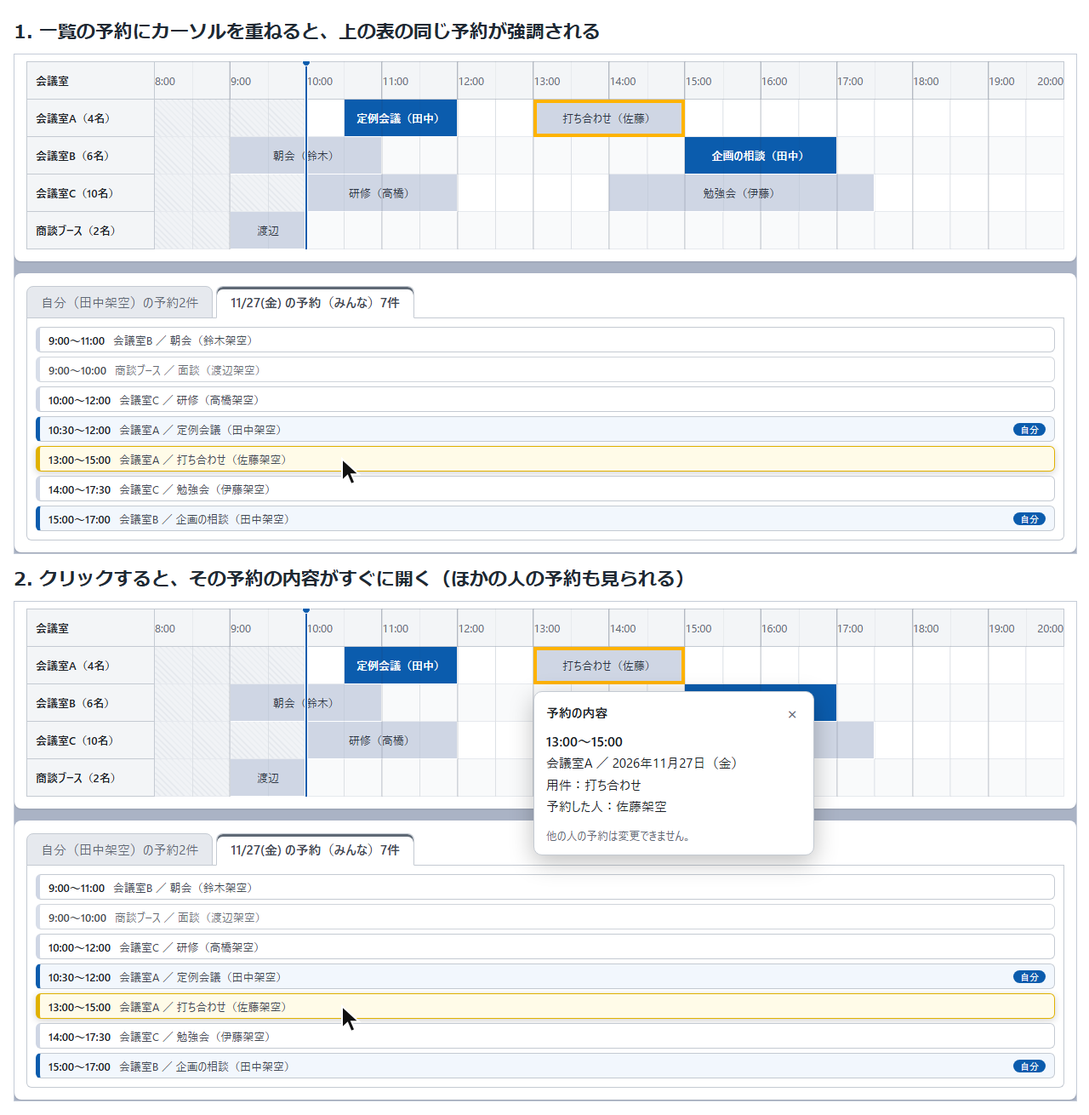
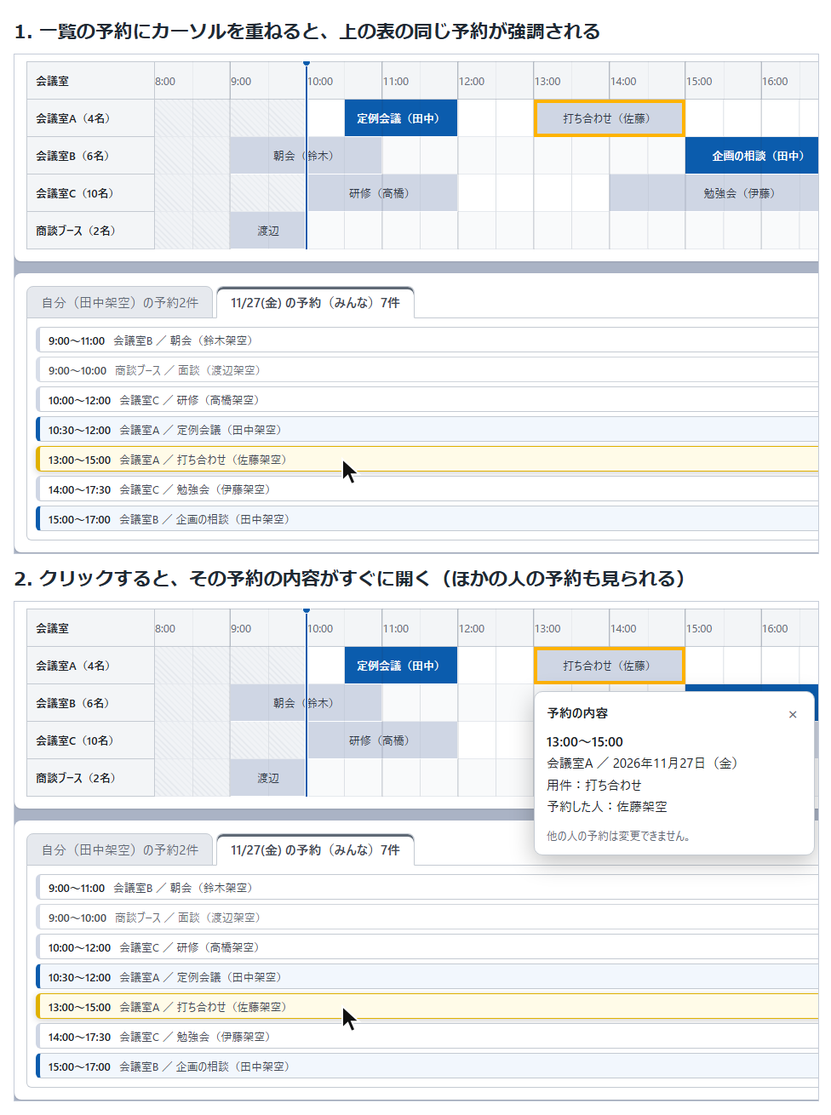
ポートフォリオを人事の方向けに添削して直す（#198）

diff --git a/README.md b/README.md
@@ -1,144 +1,103 @@
 # 会議室予約管理アプリ
 
-社員が PC から会議室の空き状況を確認して、予約・変更・キャンセルできる Web アプリです。**同じ会議室・同じ時間帯の予約が重ならないこと**を、いちばん大事にしています。
+社員が PC で会議室の空き状況を確認して、予約・変更・キャンセルできる Web アプリです。**同じ会議室の予約が重ならないこと**を、いちばん大事にしています。
 
-AI（Claude Code）を使ったアプリ開発の工程を学ぶための練習用で、会社・社員・予約データはすべて架空です。ログイン機能はなく、自分のパソコンで動かすことを想定しています。
+AI（Claude Code）と一緒に作った学習用のアプリで、会社・社員・予約データはすべて架空です。
 
-**技術**: Java 25 / Spring Boot ・ React / TypeScript / Vite ・ PostgreSQL
-
-## 目次
-- [こだわったところ](#こだわったところ)
-- [今回は実装しなかったことと、反省点](#今回は実装しなかったことと反省点)
-- [主な機能と使い方](#主な機能と使い方)
-- [技術構成](#技術構成)
-- [品質と開発の進め方](#品質と開発の進め方)
-- [起動方法](#起動方法)
-- [クライアントとペルソナ](#クライアントとペルソナ要約架空)
-- [注意と制限](#注意と制限)
-- [開発の記録](#開発の記録)
-- [ライセンス](#ライセンス)
-
-## こだわったところ
-写っている社員・予約は、すべて架空のデータです。
+**技術**: Java / Spring Boot ・ React / TypeScript ・ PostgreSQL
 
 ![会議室ごとの予約が並ぶ予約表と、その日のみんなの予約の一覧](docs/images/timetable.png)
 
-お客様は PC の複雑な操作が苦手で、いちばんの困りごとは予約の重複です。そこで、次の 3 つを意識して作りました。変更とキャンセルも、総務部に頼まず自分でできます（取り消しの前には確認を出します）。
+## 自分が担当したこと
+- 画面を実際に操作して、直感的な操作と視線の動きの面から、改善を指示しました。
+- AI が直した画面や、README の文章と写真を確かめて、公開するかを決めました。
+- 足りなかった確認（会議室の状況を聞く項目）を、反省点として整理しました。
+
+コードは AI（Claude Code）が書いています。
+
+## お客様と困りごと（架空）
+- **お客様**: 架空ひなたサービス株式会社（オフィス運営・管理業、社員約 6 名、会議室が複数）。
+- **困りごと**: 予約を Excel と社内連絡で管理していて、空きの確認に手間がかかり、予約が重なることがある。
+- **利用者の例**: 田中架空（35 歳・営業部）。基本的な PC 操作はできるが、複雑なシステムは苦手。
+- **作ったもの**: 空き状況の確認、予約、予約の変更とキャンセル。
+- **作らなかったもの**: 繰り返し予約、メール通知、管理者画面、本物のログイン。
+
+## こだわったところ
+利用者は複雑な操作が苦手で、いちばんの困りごとは予約の重なりです。そこで、次の 3 つを意識しました。変更とキャンセルも、総務部に頼まず自分でできます（取り消しの前には確認を出します）。
 
 ### 1. 直感的に操作できる
-空き枠を押すだけで、会議室と時間が入った状態で予約できます。長い時間はドラッグで選べます。
+空いている所を押すだけで、会議室と時間が入った状態で予約できます。長い時間はドラッグで選べます。
 
 ![商談ブースの空き枠を押して開いた予約の小窓](docs/images/reserve.png)
 
 ### 2. 視線をあまり動かさない
-表と下の一覧を離しすぎず、同じ画面で見比べられるようにしました。一覧と表は連動し、どの予約かを探し直さずに済みます。カレンダーは、カーソルを外すと透けて、後ろの表が見えます。
+予約の表と一覧を近くに置き、同じ画面で見比べられるようにしました。一覧と表は連動するので、どの予約かを探し直さずに済みます。カレンダーは、カーソルを外すと透けて、後ろの表が見えます。
 
 ![一覧の予約にカーソルを重ねると表の同じ予約が強調され、クリックすると予約の内容が開く様子](docs/images/list-link.png)
 
 ![ミニカレンダーが、使っている間ははっきり表示され、カーソルを外すと透けて後ろの予約表が見える様子](docs/images/calendar.png)
 
 ### 3. 間違える前に気づける
-同じ会議室の重複は禁止し、ドラッグの途中で赤く知らせます。自分が同じ時間に別の会議室を押さえようとすると、注意と確認を出します（使い方としてありうるので、禁止はしません）。
+同じ会議室の重なりは予約できないようにし、ドラッグの途中で赤く知らせます。自分が同じ時間に別の会議室を押さえようとすると、注意と確認を出します（そういう使い方もありうるので、禁止はしません）。
 
 ![重なる時間までドラッグすると赤くなって理由が表示される様子と、自分の別の予約と重なるときの注意文](docs/images/prevent.png)
 
-## 今回は実装しなかったことと、反省点
-**静かな会議室の目印**: ペルソナには「静かな会議室を押さえたい」場面がありますが、実装しませんでした。社員約 6 名・会議室 4 つなら、働くうちに経験で分かると判断したためです。ただし、入社したばかりの人には分かりません。
+結果として、複雑な操作が苦手な社員にも使いやすい、直感的でシンプルなアプリになったと考えています（実際の利用者には、使ってもらっていません）。
 
-**反省点**: どの部屋が静かかといった会議室の状況を、お客様に確認する項目として、要件の段階で挙げていませんでした。ペルソナの場面に対する疑問を詰めきれず、機能にするかを早い段階で判断できませんでした。次は、ペルソナの場面を 1 つずつ要件と照らし合わせ、分からない点を質問として書き出します（実際に聞けない場合は、仮の答えと理由を決めます）。
+## 実装しなかったことと、反省点
+利用者の例には「静かな会議室を押さえたい」場面がありましたが、静かな部屋の目印は作りませんでした。
 
-## 主な機能と使い方
-画面は 1 つだけです（PC 向け）。
+- **判断したこと**: 社員約 6 名・会議室 4 つなら、働くうちに経験で分かると考えました。ただし、入社したばかりの人には分かりません。
+- **抜けていたこと**: どの部屋が静かかを、最初にお客様へ確認する項目に挙げていませんでした。
+- **次にすること**: 利用者の場面を 1 つずつ要件と照らし合わせ、分からない点を質問として書き出します。
 
-| 機能 | 使い方 |
+## AI と進めて学んだこと
+**よかった点**: 画面を操作して気づいたことを伝えると、直感的な操作や視線の動きの面で、デザインがよくなりました。
+
+**反省点**: 信頼するあまり、AI のおすすめを、理由を考えずに選ぶことがありました。特に文章は、自分の言葉で説明できるかを、もっと慎重に確かめるべきでした。
+
+**これから続けること**
+- 選ぶときは、なぜそれがよいと思うかを書く。
+- 仕上げのあとに、自分の言葉で説明する練習をする。
+
+## 主な機能
+| 機能 | 内容 |
 |---|---|
-| 社員を選ぶ | 右上の「ログイン中（仮）」で、操作する社員を選ぶ（パスワードなし） |
-| 空きを見る | 日付バー（◀ 今日 ▶・カレンダー）で日を選ぶと、会議室 × 時間の表に予約が出る（自分は青、ほかの人はグレー） |
-| 予約する | 空き枠を押す（30 分）かドラッグ（長い時間）して、小窓で会議室・日付・時間・用件（任意）を確かめて「予約する」 |
-| 予約を見る | 表の枠か、下の一覧のカードを押す。一覧は「自分の予約（今後）」と「その日のみんなの予約」のタブ |
-| 変更・キャンセル | 自分の、始まる前の予約だけ。小窓の［変更する］［予約をキャンセルする］か、自分のカードの［変更］［予約をキャンセル］から。どちらも確認が出る |
+| 社員を選ぶ | 画面の右上で、操作する社員を選ぶ（ログインの代わり） |
+| 空きを見る | 日付を選ぶと、会議室 × 時間の表に予約が出る（自分は青、ほかの人はグレー） |
+| 予約する | 空いている所を押すかドラッグして、会議室・日付・時間・用件（任意）を確かめる |
+| 変更・キャンセル | 自分の、始まる前の予約だけ。どちらも確認が出る |
+| キーボード操作 | マウスを使わずに予約できる |
 
-**予約の決まり**: 8:00〜20:00 の 30 分刻み、1 件は 4 時間まで、今日から 90 日先まで。同じ会議室で時間が重なる予約はできません。自分が同じ時間に別の会議室を予約するときは、注意を出して確認します（禁止はしません）。
+予約は 8:00〜20:00 の 30 分刻み、1 件 4 時間まで、90 日先までです。
 
-**キーボードだけでも予約できます**: 表の中は矢印キーで移動し（Tab で止まるのは表で 1 か所）、Enter で予約の小窓、Shift + ← → で長い時間を選びます。日付の並びの右端の［＋ 予約する］ボタンからは、最初の空き 30 分の小窓が開きます。
-
-## 技術構成
-```
-ブラウザ ── 画面（React + Vite） :5173
-              │ /api を中継
-              ▼
-            API（Spring Boot）   :8080
-              │
-              ▼
-            DB（PostgreSQL）     :5432（Docker）
-```
-
+## 技術と品質
 | 部分 | 使っているもの |
 |---|---|
-| 画面 | React 19・TypeScript・Vite |
-| API | Java 25・Spring Boot・Spring Data JPA・Flyway |
-| DB | PostgreSQL 18 |
-| テスト | JUnit + Testcontainers（API）・Vitest + Testing Library（画面）・Playwright（E2E） |
-| 品質と CI | oxlint・型チェック・SpotBugs・javac の警告・GitHub Actions |
+| 画面 | React・TypeScript・Vite |
+| API（画面と DB をつなぐ処理） | Java・Spring Boot |
+| DB（データの保存） | PostgreSQL |
+| テストと自動検査 | JUnit・Vitest・Playwright・GitHub Actions |
 
-詳しい版は [技術スタック](docs/tech-stack.md)、表と API の設計は [データ設計](docs/data-design.md)。
+- **重なりを二重に防ぐ**: アプリの処理で確かめ、さらにデータベースの決まりでも拒否します。2 人が同時に押した場合は、アプリの確認だけではすり抜けるためです。片方ずつわざと無効にして、テストの結果を確かめました（[確認の記録](docs/completion-check.md)）。
+- **自動テスト**: 合計 191 件で確かめています（API 56・画面 126・通しの操作 9）。変更のたびに自動で実行し、成功しないと取り込めない設定です。
+- **安全の確認**: パスワードなどが公開されていないか、不正な入力に耐えるかを調べました（[セキュリティ確認](docs/security-review.md)）。
+- **進め方**: 作業を登録し、別の場所で作り、自動検査を通してから、人が取り込む順で進めました。
 
-## 品質と開発の進め方
-- **重複予約を二重に防ぐ**: API（Java）で重なりを調べ、さらに DB の排他制約でも拒否します。Java の確認だけだと、2 人が同時に押したときにすり抜けるためです。片方ずつわざと無効にして、テストの結果を確かめました（[完成の目安の見比べ](docs/completion-check.md)）。
-- **自動テスト**: API 56 件・画面 126 件・E2E 9 件（2026-11-25 時点）。プルリクエストごとに CI で実行し、成功しないと `main` に入れられません。
-- **公開前の確認**: 秘密情報・依存部品・API への不正な入力を調べました（[セキュリティ確認](docs/security-review.md)）。
-- **レビューの記録**: 直した指摘と、見送った理由を残しています（[品質レビュー](docs/quality-review.md)）。
-- **開発の進め方**: Issue → ブランチ → プルリクエスト → CI → 人がマージ、の順で進めました。AI に守らせる決まりは [CLAUDE.md](CLAUDE.md) にあります。
-
-## 起動方法
-必要なもの: Java 25・Node.js 24・Docker。
-
-DB → API → 画面の順に 3 つ起動し、ブラウザで http://localhost:5173 を開きます（ポートは 5432・8080・5173 で固定）。
-
-### 1. DB（PostgreSQL・ポート 5432）
-1. `.env.example` をコピーして `.env` を作り、`DB_PASSWORD` を自分で決めた値に書き換える（`.env` は GitHub に載せない）。
-2. `docker compose up -d` で起動する（停止は `docker compose down`）。
-
-### 2. API（Spring Boot・ポート 8080）
-`backend/` で `./gradlew bootRun`。起動すると、Flyway が表とサンプルデータ（すべて架空）を作ります。
-
-### 3. 画面（React + Vite・ポート 5173）
-`frontend/` で、初回だけ `npm ci`、そのあと `npm run dev`。
-
-### テストと検査
-| 場所 | コマンド | 内容 |
-|---|---|---|
-| `backend/` | `./gradlew test` | API のテスト（Docker が必要） |
-| `backend/` | `./gradlew check` | テスト + SpotBugs（静的解析）+ javac の警告（Docker が必要。CI と同じ） |
-| `frontend/` | `npm run lint` | 書き方チェックと型チェック |
-| `frontend/` | `npm test` | 画面のテスト（`npm run coverage` で網羅率） |
-| `frontend/` | `npm run build` | 型チェックのあとにビルド |
-| `frontend/` | `npm run e2e` | E2E テスト（下の説明を参照） |
-
-E2E テストは、ブラウザを自動で動かして、予約・変更・キャンセルなどを通しで確かめます。先に `docker compose up -d` で DB だけを起動し、**開発用の API・画面は止めておきます**（テストが 8080・5173 で自動起動します）。使い捨ての DB `room_booking_e2e` を作り、終わると消します（開発用の DB は触りません）。初回だけ `npx playwright install chromium` が必要です。
-
-## クライアントとペルソナ（要約・架空）
-- **クライアント**: 架空ひなたサービス株式会社（オフィス運営・管理業、社員約 6 名、会議室が複数）。
-- **困りごと**: 予約を Excel と社内連絡で管理していて、空き確認に手間がかかり、予約が重複することがある。
-- **ペルソナ**: 田中架空（35 歳・営業部）。基本的な PC 操作はできるが、複雑なシステムは苦手。
-- **作るもの**: 空き状況の確認、予約、予約の変更、予約のキャンセル。
-- **作らないもの**: 繰り返し予約、メール通知、管理者画面、本物のログイン。
-
-詳しくは [要件定義書](docs/requirements.md)・[クライアント情報](docs/client-brief.md)・[ペルソナ](docs/persona.md)。
+## 詳しい資料
+| 資料 | 内容 |
+|---|---|
+| [要件定義書](docs/requirements.md) | 何を作るかと、その理由（[お客様](docs/client-brief.md)・[利用者の例](docs/persona.md)） |
+| [画面設計](docs/screen-design.md)・[データ設計](docs/data-design.md) | 画面と、データの持ち方 |
+| [起動方法とテスト](docs/setup.md)・[技術スタック](docs/tech-stack.md) | 動かし方と、使った道具の版 |
+| [品質レビュー](docs/quality-review.md) | 直した指摘と、見送った理由 |
+| [進捗状況](docs/progress.md) | いつ、何を作り、直したか |
+| [CLAUDE.md](CLAUDE.md) | AI に守らせた決まり |
 
 ## 注意と制限
-- **インターネット上のサーバーに置かないでください。** ログインがない学習用で、API は `127.0.0.1`（自分のパソコン）だけで待ち受けます。
-- **本人の確認はできません。** API は、送られた社員番号をそのまま信じます。変更・キャンセルで予約した人と番号が一致するかは調べますが、他人の番号を送れば操作できます。
-- DB のパスワードは `.env` にだけ書きます（コードには初期値も書きません）。
-- 対応するブラウザは Chrome・Edge の最新版です。自動テストは Chromium で行っています。
+- **ログインがない学習用のため、インターネット上に公開して使うことはできません。** 他の社員を選べば、その人の予約も操作できます。
+- 対象は PC の Chrome・Edge です。スマートフォン向けには作っていません。
 - 弱点を見つけたときの連絡方法は [SECURITY.md](SECURITY.md)。
-
-## 開発の記録
-| 文書 | 内容 |
-|---|---|
-| [進捗状況](docs/progress.md) | いつ、何を作り、直したか |
-| [次回の再開メモ](docs/handoff.md) | 今の状態と、次にやること |
-| [画面設計](docs/screen-design.md)・[画面モック](docs/mock/index.html) | 画面の要素と、作る前の見本 |
 
 ## ライセンス
 [MIT License](LICENSE)

diff --git a/docs/handoff.md b/docs/handoff.md
@@ -7,7 +7,7 @@
 - **次回はここから**（この順番で）:
   0. 「マージしました」と言われたら、**番号ごとに、状態が MERGED のときだけ**片付ける: `S=$(gh pr view <番号> --json state --jq .state); [ "$S" = MERGED ] && git switch main && git pull && git branch -d <ブランチ>`。状態を表示するだけだと、`&&` で先へ進んで、マージ前のブランチを消してしまう（2026-11-25 に #183 で起きた。リモートは無事だったので戻せた）。
   1. **済（#188）**: 見送りにした項目の理由を、`docs/quality-review.md` に書いた。
-  2. **ポートフォリオに関わるもの**（ユーザーの指示で、最後にまとめて。この順番。**次は④から**）: ①**済（#190）**: README の整理（案A「見せる順」でユーザー了承）。②**済（#192）**: LICENSE（MIT。著作権者は `shin`）。③**済（#194）**: 画面の写真（`docs/images/`。#196 で 5 枚に入れ替え、README は「こだわったところ」の構成にした）。画面の見た目を変えたら撮り直す（撮影用の別の DB を作り、画面の時計を固定して撮った）。④完成したら「更新を止めた」旨と日付を書くか、リポジトリをアーカイブする案を相談する。
+  2. **ポートフォリオに関わるもの**（ユーザーの指示で、最後にまとめて。この順番。**次は④から**）: ①**済（#190）**: README の整理（案A「見せる順」でユーザー了承）。②**済（#192）**: LICENSE（MIT。著作権者は `shin`）。③**済（#194）**: 画面の写真（`docs/images/`。#196 で 5 枚に入れ替え、README は「こだわったところ」の構成にした）。#198 で人事の方向けに添削して直した（**ポートフォリオは、作ったらプロ視点で添削する**）。残る相談: 完成後の扱い・古いブランチ。予定: 説明の練習（面接官の質問に答える）とデザインのレビュー。画面の見た目を変えたら撮り直す（撮影用の別の DB を作り、画面の時計を固定して撮った）。④完成したら「更新を止めた」旨と日付を書くか、リポジトリをアーカイブする案を相談する。
      - 別件: GitHub に古いブランチ `feature/86-cal-title-align` が残っている（PR #87 はマージされずに閉じた）。中身を確かめてから、消すかユーザーに相談する。
   3. **全部が終わったあと（ユーザーの依頼）**: ①このアプリのデザインなどを、**プロの視点でレビューして教える**（今後に役立てる）。②**ユーザーと私の「完成イメージの差」を洗い出す**。ユーザーが言い直した所（警告文は最初から赤で統一・断りのお知らせは操作の近く・予約の点は数字の下・カレンダーの大きさは月でそろえる・4 時間超えは操作中に赤で見せる・短い枠の文字切れ・絵文字は使わない・ポートフォリオは最後）が、たたき台。これをもとに、次のアプリのモック・プロトタイプ・コードの完成度を上げる決まりを作り、スキル `app-dev-knowledge` と記憶に反映する。たたき台は、記憶 `design-gaps-user-expectations` にある。
 - **気をつけること**: ①`CLAUDE.md` の「報告と判断の誠実さ」5 項目（できた・できていない・確認していないを分ける／見ていないことを済みと書かない／解釈したら確認する／テストのために目的を変えない／問題は小さくても書く）を、報告のたびに守る。②画面を作る前は、`docs/screen-design.md` の「要素の一覧」と最終モックを全部読み、入れる・入れない要素をユーザーに見せて了承を取る。③ブランチを作るコマンドと commit のコマンドは分ける。`push` と `main` が同じコマンドに入ると、フックに止められる。④CI が赤いときは、まずログの原因を読む（429 などは `gh run rerun <番号> --failed`）。手元（Windows）では通るのに CI（Linux・別のフォント）で落ちる寸法のテストがあるので、寸法は「設計の関係」で確かめる。⑤画面の見た目は、実ブラウザでユーザーに確認してもらってから、コミットして PR にする。見た目の指摘は、まず実ブラウザで測る。⑥ファイルの編集は Edit ツールか Node で行う。Node の文字列に `\n` や `` を書くと、実際の改行や文字に展開されるので、Java などの記号を書くときは Edit ツールを使う。CRLF のファイルに注意。作業中の変更を捨てるコマンド（`git checkout -- .` など）は打たない。⑦**表示や文言を変える PR は、画面のテストだけでなく `e2e` も `grep` し、手元で `npm run e2e` を実行してから出す**。E2E は、画面の時計を日本時間の今日の 10:00 に固定してあり（実行する時刻で結果が変わらないように）、API の時計は本物のまま。⑧**やり取りの文章（チャット）で、絵文字を使わない**（小さくて判別できない。丸数字・コード・文書・PR 本文はよい）。⑨調査だけの回は、コードもファイルも変えない。⑩次のアプリでは、画面設計の最初にデザイン案を 2〜3 個＋理由の箇条書きで出し、色の意味・お知らせの出す場所・繰り返し部品の大きさの決まりを先に書く。⑪学びはスキル `app-dev-knowledge` に足す（2026-11-25 の分は追加済み。リポジトリの外にある）。

diff --git a/docs/setup.md b/docs/setup.md
@@ -1,0 +1,28 @@
+# 起動方法とテスト
+必要なもの: Java 25・Node.js 24・Docker。
+
+DB → API → 画面の順に 3 つ起動し、ブラウザで http://localhost:5173 を開きます（ポートは 5432・8080・5173 で固定）。
+
+## 1. DB（PostgreSQL・ポート 5432）
+1. `.env.example` をコピーして `.env` を作り、`DB_PASSWORD` を自分で決めた値に書き換える（`.env` は GitHub に載せない）。
+2. `docker compose up -d` で起動する（停止は `docker compose down`）。
+
+## 2. API（Spring Boot・ポート 8080）
+`backend/` で `./gradlew bootRun`。起動すると、Flyway が表とサンプルデータ（すべて架空）を作ります。
+
+## 3. 画面（React + Vite・ポート 5173）
+`frontend/` で、初回だけ `npm ci`、そのあと `npm run dev`。
+
+## テストと検査
+| 場所 | コマンド | 内容 |
+|---|---|---|
+| `backend/` | `./gradlew test` | API のテスト（Docker が必要） |
+| `backend/` | `./gradlew check` | テスト + SpotBugs（静的解析）+ javac の警告（Docker が必要。CI と同じ） |
+| `frontend/` | `npm run lint` | 書き方チェックと型チェック |
+| `frontend/` | `npm test` | 画面のテスト（`npm run coverage` で網羅率） |
+| `frontend/` | `npm run build` | 型チェックのあとにビルド |
+| `frontend/` | `npm run e2e` | E2E テスト（下の説明を参照） |
+
+E2E テストは、ブラウザを自動で動かして、予約・変更・キャンセルなどを通しで確かめます。先に `docker compose up -d` で DB だけを起動し、**開発用の API・画面は止めておきます**（テストが 8080・5173 で自動起動します）。使い捨ての DB `room_booking_e2e` を作り、終わると消します（開発用の DB は触りません）。初回だけ `npx playwright install chromium` が必要です。
+
+版の一覧は [技術スタック](tech-stack.md)。

diff --git a/docs/progress.md b/docs/progress.md
@@ -52,3 +52,4 @@
 - 2026-11-26: LICENSE（MIT。著作権者は shin）を追加した（#192）
 - 2026-11-26: README に画面の写真を 4 枚足した（#194）。撮影用の別の DB に架空の予約だけを入れて撮り、撮り終えて DB は消した。画像にメタデータが無いことを確かめた。一覧と表の連動・4 時間超えの写真は、実際の画面 2 枚を上下に並べて説明を付けた（連動の写真は、マウスの矢印の絵も足した）。30 分の仮の枠の文字切れは、未解決として `docs/quality-review.md` に記録した
 - 2026-11-26: README を「こだわったところ」（直感的な操作・視線をあまり動かさない・間違える前に気づける）の構成にし、「今回は実装しなかったことと、反省点」（静かな会議室の目印）を足した。透けるカレンダーと重なりの写真を撮り、4 時間超えの写真は外した（#196）
+- 2026-11-26: 就職先の人事の方向けに、プロの視点で添削して直した（#198）。README に「自分が担当したこと」を足し、起動方法とテストは docs/setup.md に移した。再開メモへのリンクを外し、古い記述を直し、写真を文字が読める大きさに切り出して撮り直した。API のテスト 56 件・画面 126 件の成功を、この日に実行して確かめた。「AI と進めて学んだこと」（よかった点・反省点・これから続けること）も README に載せた

diff --git a/docs/tech-stack.md b/docs/tech-stack.md
@@ -3,7 +3,7 @@
 [要件定義書](requirements.md) の「技術スタック」の詳細。
 **使うツールを足したり、バージョンを上げたりしたら、この表も更新する。**
 確認日: 2026-11-23 に画面側の版を `npm outdated` で再確認（そのほかは 2026-11-18。`npm view`・Maven Central・Gradle 公式で、正式公開された安定版の最新を確認）
-方針: 正式公開された安定版の最新を使う（β版・RC・SNAPSHOT は使わない）。状態: **一部作成済み**（DB・backend・画面の骨組みは作成済みで、版は backend/build.gradle と frontend/package.json と同じ。CI は GitHub Actions（`.github/workflows/ci.yml`。Action は SHA で固定））。
+方針: 正式公開された安定版の最新を使う（β版・RC・SNAPSHOT は使わない）。状態: **作成済み**（版は backend/build.gradle と frontend/package.json と同じ。CI は GitHub Actions（`.github/workflows/ci.yml`。Action は SHA で固定））。
 
 ## 実行環境
 | 項目 | バージョン | 役割 |

diff --git a/docs/persona.md b/docs/persona.md
@@ -1,6 +1,6 @@
 # ペルソナ（架空）
 
-> **案**。ユーザー確認後に確定する。
+> 架空の利用者像。このペルソナをもとに、要件と画面を考えた。
 
 ## 基本
 - 名前・年代・仕事: 田中架空（35 歳・営業部）
